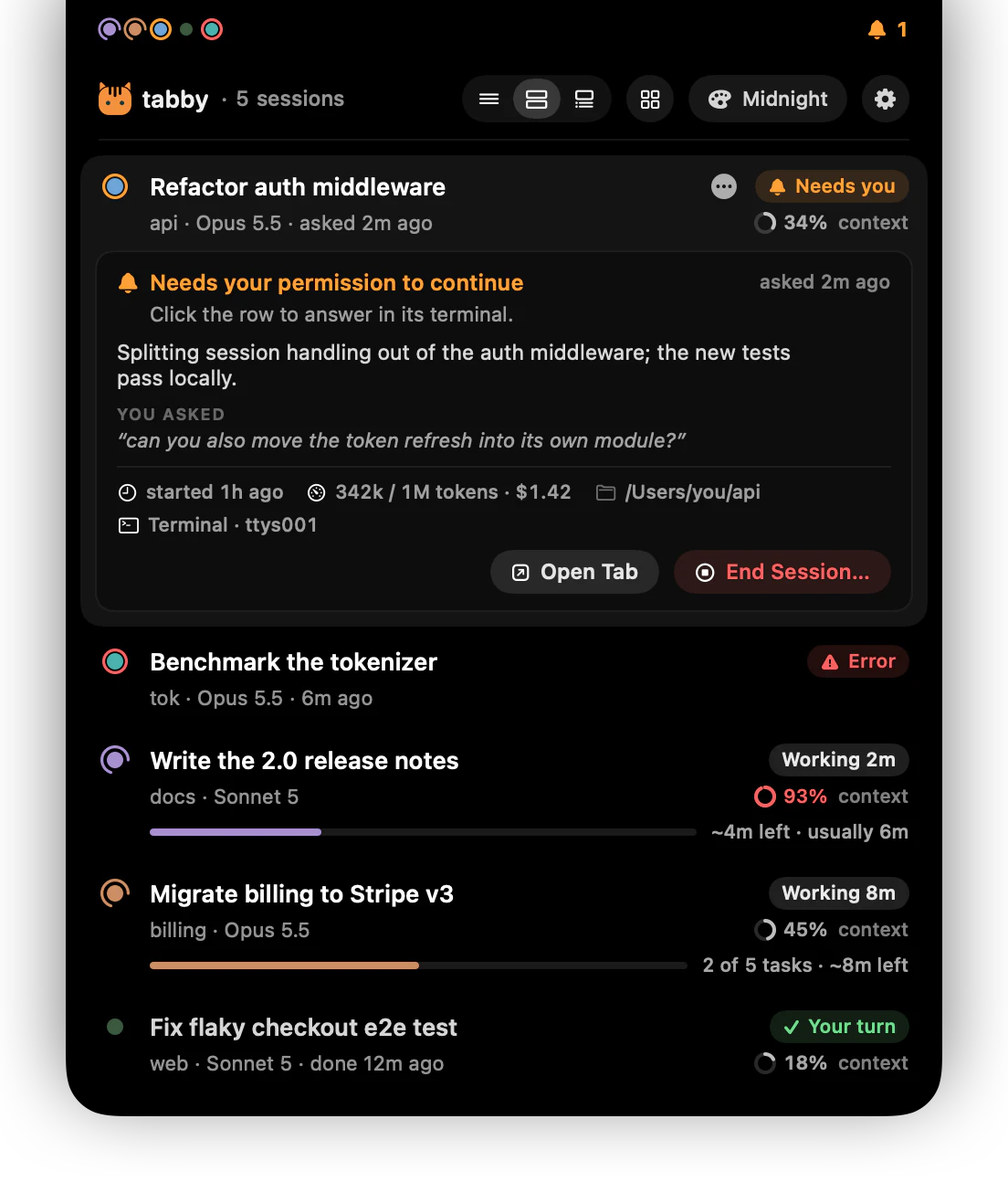
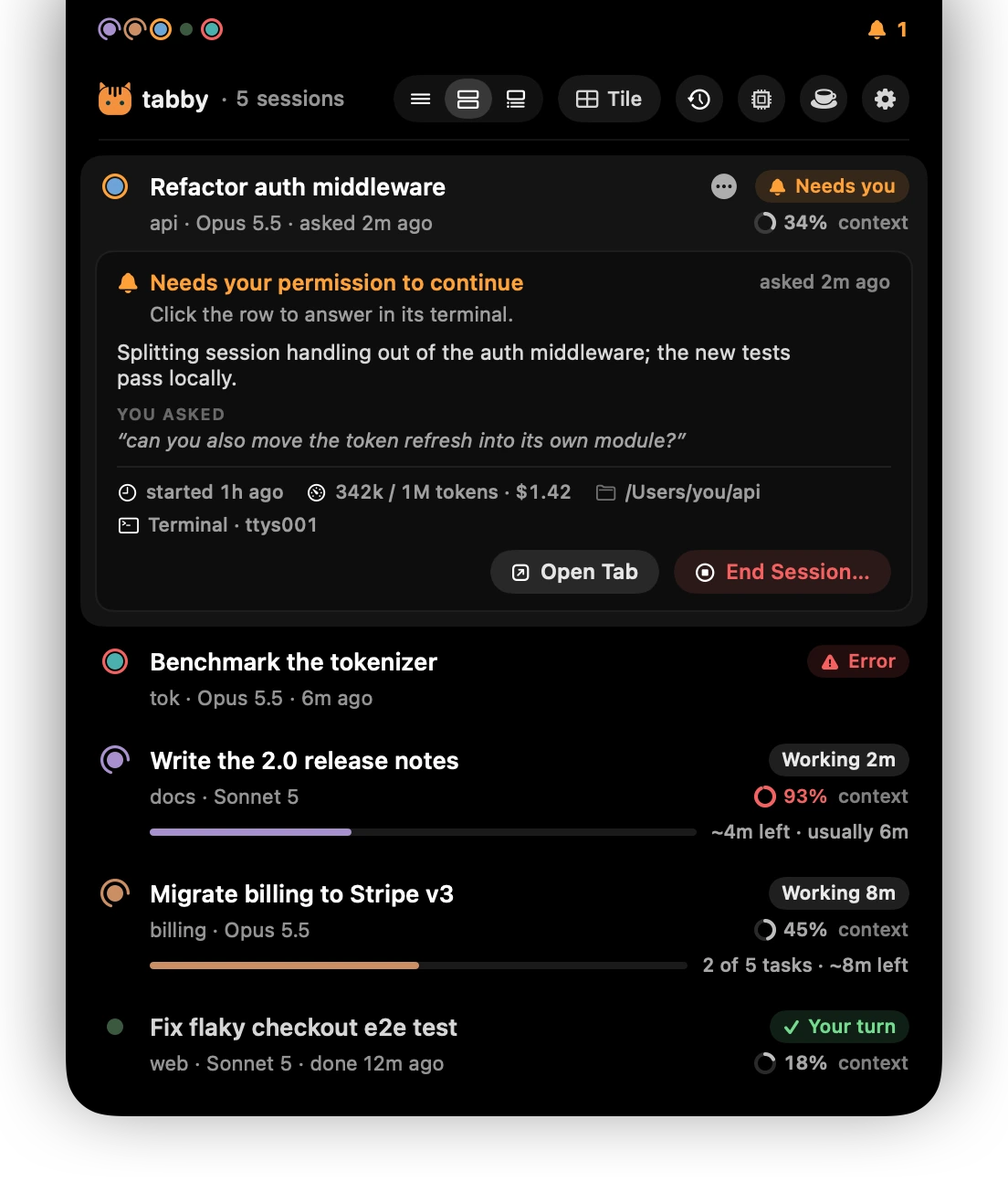
0.5.0: close the lid and Claude keeps working, menu-bar mode, context alerts
Claude-Session: https://claude.ai/code/session_015b5oNbYrBUp2FJnxKCXLaE

Changed region(s): [[0.4004, 0.0618, 0.8315, 0.1236], [0.308, 0.6801, 0.3388, 0.711]]

diff --git a/site/index.html b/site/index.html
@@ -3,8 +3,8 @@
 <head>
 <meta charset="utf-8">
 <meta name="viewport" content="width=device-width, initial-scale=1">
-<title>tabby: AI names, colors and live status for Claude Code tabs</title>
-<meta name="description" content="tabby is a free Claude Code plugin: an AI-written name, a calm color and a live status for every session, and a Mac island that shows them all. Runs on your machine.">
+<title>tabby: every Claude Code tab at a glance, and Claude keeps working with the lid closed</title>
+<meta name="description" content="tabby is a free Claude Code plugin: an AI-written name, a calm color and a live status for every session, and a Mac island that shows them all. Close the lid and Claude keeps working. Runs on your machine.">
 <meta name="robots" content="index, follow, max-image-preview:large">
 <meta name="theme-color" content="#0b0b0e">
 <meta name="color-scheme" content="dark">
@@ -13,7 +13,7 @@
 <meta property="og:site_name" content="tabby">
 <meta property="og:locale" content="en_US">
 <meta property="og:title" content="tabby: every Claude Code tab, at a glance">
-<meta property="og:description" content="tabby is a free Claude Code plugin: an AI-written name, a calm color and a live status for every session, and a Mac island that shows them all. Runs on your machine.">
+<meta property="og:description" content="tabby is a free Claude Code plugin: an AI-written name, a calm color and a live status for every session, and a Mac island that shows them all. Close the lid and Claude keeps working. Runs on your machine.">
 <meta property="og:type" content="website">
 <meta property="og:url" content="https://claude-tabby.vercel.app/">
 <meta property="og:image" content="https://claude-tabby.vercel.app/assets/og.jpg?v=20261005a">
@@ -23,7 +23,7 @@
 <meta property="og:image:alt" content="tabby (beta): Every Claude tab, at a glance. A Mac screen with Tabby Island open, listing five Claude Code sessions with their names, colors and status, above a Terminal window with named tabs; the tabby cat peeks over the screen.">
 <meta name="twitter:card" content="summary_large_image">
 <meta name="twitter:title" content="tabby: every Claude Code tab, at a glance">
-<meta name="twitter:description" content="tabby is a free Claude Code plugin: an AI-written name, a calm color and a live status for every session, and a Mac island that shows them all. Runs on your machine.">
+<meta name="twitter:description" content="tabby is a free Claude Code plugin: an AI-written name, a calm color and a live status for every session, and a Mac island that shows them all. Close the lid and Claude keeps working. Runs on your machine.">
 <meta name="twitter:image" content="https://claude-tabby.vercel.app/assets/og.jpg?v=20261005a">
 <meta name="twitter:image:alt" content="tabby (beta): Every Claude tab, at a glance. A Mac screen with Tabby Island open, listing five Claude Code sessions with their names, colors and status, above a Terminal window with named tabs; the tabby cat peeks over the screen.">
 <link rel="icon" href="/assets/favicon.svg?v=20260928a" type="image/svg+xml">
@@ -33,9 +33,9 @@
 <link rel="apple-touch-icon" href="/assets/apple-touch-icon.png?v=20260928a">
 <link rel="manifest" href="/site.webmanifest">
 <link rel="preload" as="font" type="font/woff2" href="/assets/fonts/outfit-v15-latin.woff2" crossorigin>
-<link rel="stylesheet" href="/assets/site.css?v=20261005a">
-<link rel="preload" as="image" href="/assets/ui/island-collapsed.webp?v=20261002a" type="image/webp">
-<script type="application/ld+json">{"@context":"https://schema.org","@graph":[{"@type":"WebSite","@id":"https://claude-tabby.vercel.app/#site","url":"https://claude-tabby.vercel.app/","name":"tabby","description":"tabby is a free Claude Code plugin: an AI-written name, a calm color and a live status for every session, and a Mac island that shows them all. Runs on your machine.","inLanguage":"en"},{"@type":"SoftwareApplication","@id":"https://claude-tabby.vercel.app/#app","name":"tabby","alternateName":["claude-tabby","Tabby Island"],"url":"https://claude-tabby.vercel.app/","applicationCategory":"DeveloperApplication","applicationSubCategory":"Claude Code plugin","operatingSystem":"macOS, Linux","description":"tabby is a free Claude Code plugin: an AI-written name, a calm color and a live status for every session, and a Mac island that shows them all. Runs on your machine.","image":"https://claude-tabby.vercel.app/assets/og.jpg","screenshot":"https://claude-tabby.vercel.app/assets/ui/island-standard.webp","featureList":["AI-written tab names","A calm color per session","Live status in the tab title and status line","57 themes","Tabby Island: every session at the top of the screen","Focus mode","Window tiling across screens","Quick launch"],"isAccessibleForFree":true,"license":"https://github.com/0xNtive/tabby/blob/main/LICENSE","installUrl":"https://claude-tabby.vercel.app/#install","releaseNotes":"https://github.com/0xNtive/tabby/blob/main/CHANGELOG.md","codeRepository":"https://github.com/0xNtive/tabby","offers":{"@type":"Offer","price":"0","priceCurrency":"USD"},"sameAs":["https://github.com/0xNtive/tabby"]},{"@type":"FAQPage","@id":"https://claude-tabby.vercel.app/#questions","mainEntity":[{"@type":"Question","name":"Does it cost anything?","acceptedAnswer":{"@type":"Answer","text":"No. tabby is free and MIT licensed. Tab names come from Claude Haiku through your own Claude Code login, about 500 tokens each, which Pro and Max cover."}},{"@type":"Question","name":"What leaves my machine?","acceptedAnswer":{"@type":"Answer","text":"One thing you typed: to name a tab, tabby sends that session's last few prompts (trimmed), a short excerpt of Claude's last reply and the project folder's name to Claude Haiku, through your own Claude Code login and the provider it already uses. Type /tab namer heuristic and names are worked out on your machine instead. Besides that, tabby asks github.com for a newer release every few hours and downloads Tabby Island from GitHub's releases; neither sends anything about you, and the check can be turned off. No servers, no telemetry, no accounts. Tabby Island has no network code at all, and tabby's files in ~/.claude/tabby are readable only by you."}},{"@type":"Question","name":"Is it safe to install?","acceptedAnswer":{"@type":"Answer","text":"tabby is open source with no dependencies, so everything it runs is in the repository. The installer shows the terms first, backs up your Claude settings before changing them, and tabby uninstall reverts every change. The naming call runs with no tools, no hooks and no plugins, so it can only return a name. Tabby Island asks for Accessibility and Automation only to arrange windows, find each session's window and jump to tabs; it never reads your screen or what you type. It is in beta and not yet notarized by Apple; the release zip carries a checksum and a build attestation you can verify."}},{"@type":"Question","name":"How do I update?","acceptedAnswer":{"@type":"Answer","text":"When a new version is out, the island shows an Update button. Or type /tab update in Claude, or run tabby update in a terminal. It updates the plugin and the island together."}},{"@type":"Question","name":"Which terminals work?","acceptedAnswer":{"@type":"Answer","text":"Terminal.app and iTerm2 get everything, including the island, Focus mode and tiling. Ghostty, WezTerm, kitty, Alacritty, VS Code and tmux get names, colors and live status."}},{"@type":"Question","name":"Why does tiling ask for Accessibility?","acceptedAnswer":{"@type":"Answer","text":"Moving a tab into its own window and bringing a full-screen window back use macOS window controls. tabby asks once, for Tabby Island, and never records your screen."}},{"@type":"Question","name":"Something isn't working?","acceptedAnswer":{"@type":"Answer","text":"Ask Claude to “fix tabby”: it runs tabby doctor, which checks every part of the install, and fixes what it finds. Running the installer again is safe too."}},{"@type":"Question","name":"How do I turn it off?","acceptedAnswer":{"@type":"Answer","text":"Type /tab off for one tab, or run tabby uninstall to revert every change. Your Claude settings file is backed up first."}},{"@type":"Question","name":"Is this made by Anthropic?","acceptedAnswer":{"@type":"Answer","text":"No. tabby is an independent open source project. Claude is a trademark of Anthropic."}}]}]}</script>
+<link rel="stylesheet" href="/assets/site.css?v=20261011a">
+<link rel="preload" as="image" href="/assets/ui/island-collapsed.webp?v=20261011a" type="image/webp">
+<script type="application/ld+json">{"@context":"https://schema.org","@graph":[{"@type":"WebSite","@id":"https://claude-tabby.vercel.app/#site","url":"https://claude-tabby.vercel.app/","name":"tabby","description":"tabby is a free Claude Code plugin: an AI-written name, a calm color and a live status for every session, and a Mac island that shows them all. Close the lid and Claude keeps working. Runs on your machine.","inLanguage":"en"},{"@type":"SoftwareApplication","@id":"https://claude-tabby.vercel.app/#app","name":"tabby","alternateName":["claude-tabby","Tabby Island"],"url":"https://claude-tabby.vercel.app/","applicationCategory":"DeveloperApplication","applicationSubCategory":"Claude Code plugin","operatingSystem":"macOS, Linux","description":"tabby is a free Claude Code plugin: an AI-written name, a calm color and a live status for every session, and a Mac island that shows them all. Close the lid and Claude keeps working. Runs on your machine.","image":"https://claude-tabby.vercel.app/assets/og.jpg","screenshot":"https://claude-tabby.vercel.app/assets/ui/island-standard.webp","featureList":["AI-written tab names","A calm color per session","Live status in the tab title and status line","57 themes","Tabby Island: every session at the top of the screen","Focus mode","Window tiling across screens","Quick launch","Awake: keep the Mac running with the lid closed until every session is done","Menu bar mode","Context alerts at 80% and 95%","Session history with one-click resume","Stop stale dev servers in one click"],"isAccessibleForFree":true,"license":"https://github.com/0xNtive/tabby/blob/main/LICENSE","installUrl":"https://claude-tabby.vercel.app/#install","releaseNotes":"https://github.com/0xNtive/tabby/blob/main/CHANGELOG.md","codeRepository":"https://github.com/0xNtive/tabby","offers":{"@type":"Offer","price":"0","priceCurrency":"USD"},"sameAs":["https://github.com/0xNtive/tabby"],"softwareVersion":"0.5.0","dateModified":"2026-10-11","keywords":"Claude Code, Claude Code plugin, terminal tabs, keep Mac awake lid closed, caffeinate, menu bar, Dynamic Island, macOS, Anthropic Claude"},{"@type":"FAQPage","@id":"https://claude-tabby.vercel.app/#questions","mainEntity":[{"@type":"Question","name":"Does it cost anything?","acceptedAnswer":{"@type":"Answer","text":"No. tabby is free and MIT licensed. Tab names come from Claude Haiku through your own Claude Code login, about 500 tokens each, which Pro and Max cover."}},{"@type":"Question","name":"What leaves my machine?","acceptedAnswer":{"@type":"Answer","text":"One thing you typed: to name a tab, tabby sends that session's last few prompts (trimmed), a short excerpt of Claude's last reply and the project folder's name to Claude Haiku, through your own Claude Code login and the provider it already uses. Type /tab namer heuristic and names are worked out on your machine instead. Besides that, tabby asks github.com for a newer release every few hours and downloads Tabby Island from GitHub's releases; neither sends anything about you, and the check can be turned off. No servers, no telemetry, no accounts. Tabby Island has no network code at all, and tabby's files in ~/.claude/tabby are readable only by you."}},{"@type":"Question","name":"Is it safe to install?","acceptedAnswer":{"@type":"Answer","text":"tabby is open source with no dependencies, so everything it runs is in the repository. The installer shows the terms first, backs up your Claude settings before changing them, and tabby uninstall reverts every change. The naming call runs with no tools, no hooks and no plugins, so it can only return a name. Tabby Island asks for Accessibility and Automation only to arrange windows, find each session's window and jump to tabs; it never reads your screen or what you type. It is in beta and not yet notarized by Apple; the release zip carries a checksum and a build attestation you can verify."}},{"@type":"Question","name":"How do I update?","acceptedAnswer":{"@type":"Answer","text":"When a new version is out, the island shows an Update button. Or type /tab update in Claude, or run tabby update in a terminal. It updates the plugin and the island together."}},{"@type":"Question","name":"Can Claude keep working with the lid closed?","acceptedAnswer":{"@type":"Answer","text":"Yes, with Awake. Click the cup in the island (or type /tab awake 4h), pick how long, and close the lid. A Mac normally sleeps when it's closed, whatever caffeinate says. Leave \"Sleep as soon as every session is done\" ticked and it sleeps again as soon as the work is done; it also comes back on when the time is up or below 10% battery."}},{"@type":"Question","name":"What does Awake change on my Mac?","acceptedAnswer":{"@type":"Answer","text":"Only pmset disablesleep keeps a closed Mac awake, and it needs an administrator. The first time, macOS asks for your password once, and tabby adds a rule to /etc/sudoers.d that lets your user run exactly two commands without a password: sleep off and sleep on. Nothing else runs as root. tabby awake forget takes it back."}},{"@type":"Question","name":"Can I hide the island?","acceptedAnswer":{"@type":"Answer","text":"Yes: choose In the menu bar in Settings › General, or type /tab island menubar. Nothing sits at the notch any more; the cat in the menu bar shows your sessions as dots, and a click drops the whole list down."}},{"@type":"Question","name":"Which terminals work?","acceptedAnswer":{"@type":"Answer","text":"Terminal.app and iTerm2 get everything, including the island, Focus mode and tiling. Ghostty, WezTerm, kitty, Alacritty, VS Code and tmux get names, colors and live status."}},{"@type":"Question","name":"Why does tiling ask for Accessibility?","acceptedAnswer":{"@type":"Answer","text":"Moving a tab into its own window and bringing a full-screen window back use macOS window controls. tabby asks once, for Tabby Island, and never records your screen."}},{"@type":"Question","name":"Something isn't working?","acceptedAnswer":{"@type":"Answer","text":"Ask Claude to “fix tabby”: it runs tabby doctor, which checks every part of the install, and fixes what it finds. Running the installer again is safe too."}},{"@type":"Question","name":"How do I turn it off?","acceptedAnswer":{"@type":"Answer","text":"Type /tab off for one tab, or run tabby uninstall to revert every change. Your Claude settings file is backed up first."}},{"@type":"Question","name":"Is this made by Anthropic?","acceptedAnswer":{"@type":"Answer","text":"No. tabby is an independent open source project. Claude is a trademark of Anthropic."}}]}]}</script>
 </head>
 <body>
 <a class="skip" href="#main">Skip to content</a>
@@ -82,7 +82,7 @@
           <span class="mb-right"><span class="mb-cat"><img src="/assets/logo.svg?v=20260928a" alt=""></span><span>Thu 14:02</span></span>
         </div>
         <div class="pill" aria-hidden="true">
-          <img data-state="collapsed" class="is-on" src="/assets/ui/island-collapsed.webp?v=20261002a" alt="" width="866" height="136" decoding="async">
+          <img data-state="collapsed" class="is-on" src="/assets/ui/island-collapsed.webp?v=20261011a" alt="" width="866" height="136" decoding="async">
           <img data-state="waiting" src="/assets/ui/island-announce-waiting.webp?v=20261002a" alt="" width="1562" height="136" loading="lazy" decoding="async">
           <img data-state="done" src="/assets/ui/island-announce-done.webp?v=20261002a" alt="" width="1514" height="136" loading="lazy" decoding="async">
         </div>
@@ -153,7 +153,7 @@
     </div>
     <div class="pillrow reveal" aria-label="The collapsed island: five session dots, then an announcement that Refactor auth middleware needs you, then that Fix flaky checkout e2e test is done" role="img">
       <div class="pill pill-big">
-        <img data-state="collapsed" class="is-on" src="/assets/ui/island-collapsed.webp?v=20261002a" alt="" width="866" height="136" loading="lazy" decoding="async">
+        <img data-state="collapsed" class="is-on" src="/assets/ui/island-collapsed.webp?v=20261011a" alt="" width="866" height="136" loading="lazy" decoding="async">
         <img data-state="waiting" src="/assets/ui/island-announce-waiting.webp?v=20261002a" alt="" width="1562" height="136" loading="lazy" decoding="async">
         <img data-state="done" src="/assets/ui/island-announce-done.webp?v=20261002a" alt="" width="1514" height="136" loading="lazy" decoding="async">
       </div>
@@ -167,9 +167,9 @@
           <button type="button" role="tab" class="seg" data-mode="detailed" aria-selected="false">Detailed</button>
         </div>
         <div class="mode-frame">
-          <img data-mode="minimal" src="/assets/ui/island-minimal.webp?v=20261002a" alt="Tabby Island in Minimal mode: one line per session with its dot, name, status and context used" width="976" height="586" loading="lazy" decoding="async">
-          <img data-mode="standard" class="is-on" src="/assets/ui/island-standard.webp?v=20261002a" alt="Tabby Island in Standard mode: five sessions with a status chip (needs you, error, working with a progress estimate, your turn) and the context used" width="1104" height="882" loading="lazy" decoding="async">
-          <img data-mode="detailed" src="/assets/ui/island-detailed.webp?v=20261002a" alt="Tabby Island in Detailed mode: every session with its summary, current task, last prompt, tokens and cost" width="1168" height="1360" loading="lazy" decoding="async">
+          <img data-mode="minimal" src="/assets/ui/island-minimal.webp?v=20261011a" alt="Tabby Island in Minimal mode: one line per session with its dot, name, status and context used" width="976" height="586" loading="lazy" decoding="async">
+          <img data-mode="standard" class="is-on" src="/assets/ui/island-standard.webp?v=20261011a" alt="Tabby Island in Standard mode: five sessions with a status chip (needs you, error, working with a progress estimate, your turn) and the context used" width="1104" height="882" loading="lazy" decoding="async">
+          <img data-mode="detailed" src="/assets/ui/island-detailed.webp?v=20261011a" alt="Tabby Island in Detailed mode: every session with its summary, current task, last prompt, tokens and cost" width="1168" height="1360" loading="lazy" decoding="async">
         </div>
         <p class="mode-caption" data-for="minimal">One line per session: dot, name, status, context. <kbd class="kbd">⌃⌥M</kbd> switches.</p>
         <p class="mode-caption is-on" data-for="standard">Status chips, how far along a working session is, and the context it has used.</p>
@@ -189,29 +189,40 @@
       </div>
     </div>
 
+    <div class="menubar-mode reveal">
+      <div class="menubar-copy">
+        <p class="eyebrow">New in 0.5 · Menu bar mode</p>
+        <h3 class="h3">Rather keep the notch empty?</h3>
+        <p class="lede">Choose <b>In the menu bar</b> in Settings. The cat in your menu bar shows a dot per session and how many need you. Click it, and the whole island drops down as a card: every session, page and button. News drops from the icon as a small pill.</p>
+        <img class="menubar-item" src="/assets/ui/menubar-statusitem.webp?v=20261011a" alt="The menu bar with tabby's cat, five session dots and an amber 1 for the session that needs you" width="823" height="48" loading="lazy" decoding="async">
+        <p class="cmdline"><code>tabby island menubar</code><span class="sep">·</span><code>/tab island notch</code><span class="sep">·</span>Settings › General</p>
+      </div>
+      <figure class="menubar-shot"><img src="/assets/ui/menubar-card.webp?v=20261011a" alt="Menu bar mode: the island as a card under the cat in the menu bar, listing five sessions with their status and context" width="1240" height="890" loading="lazy" decoding="async"></figure>
+    </div>
+
     <ul class="cards cards-island">
       <li class="card reveal" style="--i:0">
-        <div class="card-shot shot-dropdown"><img src="/assets/ui/island-dropdown.webp?v=20261002a" alt="A session's dropdown: Needs your permission to continue, click the row to answer in its terminal, the summary, what you asked, tokens and cost, and Open Tab and End Session buttons" width="1104" height="1294" loading="lazy" decoding="async"></div>
+        <div class="card-shot shot-dropdown"><img src="/assets/ui/island-dropdown.webp?v=20261011a" alt="A session's dropdown: Needs your permission to continue, click the row to answer in its terminal, the summary, what you asked, tokens and cost, and Open Tab and End Session buttons" width="1104" height="1294" loading="lazy" decoding="async"></div>
         <h3>Rest on a session for the full picture.</h3>
         <p>What it needs and what to do about it, its summary, your last prompt, tokens, cost, folder and terminal. <b>Open Tab</b> jumps there.</p>
       </li>
       <li class="card reveal" style="--i:1">
-        <div class="card-shot shot-end"><img src="/assets/ui/island-end.webp?v=20261002a" alt="End Migrate billing to Stripe v3? Claude stops, even mid-task, and its Terminal tab closes. Cancel or End Session." width="1104" height="1108" loading="lazy" decoding="async"></div>
+        <div class="card-shot shot-end"><img src="/assets/ui/island-end.webp?v=20261011a" alt="End Migrate billing to Stripe v3? Claude stops, even mid-task, and its Terminal tab closes. Cancel or End Session." width="1104" height="1108" loading="lazy" decoding="async"></div>
         <h3>End a session, with a safety catch.</h3>
         <p>It asks first. The conversation stays in history, so <code>claude --resume</code> brings it back.</p>
       </li>
       <li class="card reveal" style="--i:2">
-        <div class="card-shot shot-rename"><img src="/assets/ui/island-rename.webp?v=20261002a" alt="Renaming a session in place inside the island, with a hint: leave it empty to let AI name it" width="1104" height="942" loading="lazy" decoding="async"></div>
+        <div class="card-shot shot-rename"><img src="/assets/ui/island-rename.webp?v=20261011a" alt="Renaming a session in place inside the island, with a hint: leave it empty to let AI name it" width="1104" height="942" loading="lazy" decoding="async"></div>
         <h3>Rename, recolor, re-theme in place.</h3>
         <p>Right-click a row, or press <kbd class="kbd">R</kbd>, <kbd class="kbd">C</kbd> or <kbd class="kbd">T</kbd> with the keyboard open.</p>
       </li>
       <li class="card reveal" style="--i:3">
-        <div class="card-shot shot-keyboard"><img src="/assets/ui/island-keyboard.webp?v=20261002a" alt="The island open with keyboard focus, showing its key hints: arrows to select, return to open, R rename, C color, T theme, M mode, G tile" width="976" height="646" loading="lazy" decoding="async"></div>
+        <div class="card-shot shot-keyboard"><img src="/assets/ui/island-keyboard.webp?v=20261011a" alt="The island open with keyboard focus, showing its key hints: arrows to select, return to open, R rename, C color, T theme, M mode, G tile" width="976" height="646" loading="lazy" decoding="async"></div>
         <h3>Keyboard first.</h3>
         <p><kbd class="kbd">⌃⌥Space</kbd>, then arrows and <kbd class="kbd">↩</kbd>. Every global shortcut can be changed.</p>
       </li>
       <li class="card reveal" style="--i:4">
-        <div class="card-shot shot-update"><img src="/assets/ui/island-update.webp?v=20261002a" alt="The island's top bar with an orange Update button next to the mode picker" width="1104" height="882" loading="lazy" decoding="async"></div>
+        <div class="card-shot shot-update"><img src="/assets/ui/island-update.webp?v=20261011a" alt="The island's top bar with an orange Update button next to the mode picker" width="1104" height="882" loading="lazy" decoding="async"></div>
         <h3>Updates in one click.</h3>
         <p>When a new version is out, the island shows a button. Or <code>/tab update</code> in Claude. It updates the plugin and the island together.</p>
       </li>
@@ -239,7 +250,7 @@
             <span class="mb-right"><span class="mb-cat"><img src="/assets/logo.svg?v=20260928a" alt=""></span><span class="lid-clock">11:48 PM</span></span>
           </div>
           <div class="lid-island" aria-hidden="true">
-            <img data-state="collapsed" class="is-on" src="/assets/ui/island-collapsed.webp?v=20261002a" alt="" width="866" height="136" loading="lazy" decoding="async">
+            <img data-state="collapsed" class="is-on" src="/assets/ui/island-collapsed.webp?v=20261011a" alt="" width="866" height="136" loading="lazy" decoding="async">
             <img data-state="off" src="/assets/ui/awake-off.webp?v=20261011a" alt="" width="1104" height="662" loading="lazy" decoding="async">
             <img data-state="on" src="/assets/ui/awake-on.webp?v=20261011a" alt="" width="1104" height="598" loading="lazy" decoding="async">
             <img data-state="announce" src="/assets/ui/island-announce-awake.webp?v=20261011a" alt="" width="1422" height="180" loading="lazy" decoding="async">
@@ -571,6 +582,9 @@
           <details class="qa"><summary>What leaves my machine?<span class="qa-toggle" aria-hidden="true"></span></summary><p>One thing you typed: to name a tab, tabby sends that session's last few prompts (trimmed), a short excerpt of Claude's last reply and the project folder's name to Claude Haiku, through your own Claude Code login and the provider it already uses. Type /tab namer heuristic and names are worked out on your machine instead. Besides that, tabby asks github.com for a newer release every few hours and downloads Tabby Island from GitHub's releases; neither sends anything about you, and the check can be turned off. No servers, no telemetry, no accounts. Tabby Island has no network code at all, and tabby's files in ~/.claude/tabby are readable only by you.</p></details>
           <details class="qa"><summary>Is it safe to install?<span class="qa-toggle" aria-hidden="true"></span></summary><p>tabby is open source with no dependencies, so everything it runs is in the repository. The installer shows the terms first, backs up your Claude settings before changing them, and tabby uninstall reverts every change. The naming call runs with no tools, no hooks and no plugins, so it can only return a name. Tabby Island asks for Accessibility and Automation only to arrange windows, find each session's window and jump to tabs; it never reads your screen or what you type. It is in beta and not yet notarized by Apple; the release zip carries a checksum and a build attestation you can verify.</p></details>
           <details class="qa"><summary>How do I update?<span class="qa-toggle" aria-hidden="true"></span></summary><p>When a new version is out, the island shows an Update button. Or type /tab update in Claude, or run tabby update in a terminal. It updates the plugin and the island together.</p></details>
+          <details class="qa"><summary>Can Claude keep working with the lid closed?<span class="qa-toggle" aria-hidden="true"></span></summary><p>Yes, with Awake. Click the cup in the island (or type /tab awake 4h), pick how long, and close the lid. A Mac normally sleeps when it's closed, whatever caffeinate says. Leave "Sleep as soon as every session is done" ticked and it sleeps again as soon as the work is done; it also comes back on when the time is up or below 10% battery.</p></details>
+          <details class="qa"><summary>What does Awake change on my Mac?<span class="qa-toggle" aria-hidden="true"></span></summary><p>Only pmset disablesleep keeps a closed Mac awake, and it needs an administrator. The first time, macOS asks for your password once, and tabby adds a rule to /etc/sudoers.d that lets your user run exactly two commands without a password: sleep off and sleep on. Nothing else runs as root. tabby awake forget takes it back.</p></details>
+          <details class="qa"><summary>Can I hide the island?<span class="qa-toggle" aria-hidden="true"></span></summary><p>Yes: choose In the menu bar in Settings › General, or type /tab island menubar. Nothing sits at the notch any more; the cat in the menu bar shows your sessions as dots, and a click drops the whole list down.</p></details>
           <details class="qa"><summary>Which terminals work?<span class="qa-toggle" aria-hidden="true"></span></summary><p>Terminal.app and iTerm2 get everything, including the island, Focus mode and tiling. Ghostty, WezTerm, kitty, Alacritty, VS Code and tmux get names, colors and live status.</p></details>
           <details class="qa"><summary>Why does tiling ask for Accessibility?<span class="qa-toggle" aria-hidden="true"></span></summary><p>Moving a tab into its own window and bringing a full-screen window back use macOS window controls. tabby asks once, for Tabby Island, and never records your screen.</p></details>
           <details class="qa"><summary>Something isn't working?<span class="qa-toggle" aria-hidden="true"></span></summary><p>Ask Claude to “fix tabby”: it runs tabby doctor, which checks every part of the install, and fixes what it finds. Running the installer again is safe too.</p></details>
@@ -600,6 +614,6 @@
     <small>In beta: <a href="https://github.com/0xNtive/tabby/issues">tell us what breaks</a>. MIT licensed. Not affiliated with Anthropic.</small>
   </div>
 </footer>
-<script src="/assets/site.js?v=20261002b" defer></script>
+<script src="/assets/site.js?v=20261011a" defer></script>
 </body>
 </html>

diff --git a/site/assets/site.css b/site/assets/site.css
@@ -508,3 +508,10 @@ button { font: inherit; color: inherit; }
 .shot-awake { background: radial-gradient(ellipse at 50% 0%, #2a2230, #121218 70%); }
 .shot-awake img { width: 116%; left: -8%; top: -16%; }
 @media (prefers-reduced-motion: reduce) { .lid, .lid-island img, .lid-pointer, .night, .night-done li { transition: none; } .lid-glow { animation: none; } .news { animation: none; } }
+
+/* Menu bar mode, inside the island section: the copy, the menu-bar item, and the card it drops. */
+.menubar-mode { display: grid; gap: 36px; align-items: center; max-width: 1240px; margin: 88px auto 0; }
+@media (min-width: 1024px) { .menubar-mode { grid-template-columns: minmax(0, 5fr) minmax(0, 7fr); gap: 56px; } }
+.menubar-copy .lede { max-width: 46ch; }
+.menubar-item { display: block; width: min(100%, 412px); height: auto; margin-top: 28px; border-radius: 10px; box-shadow: 0 0 0 1px var(--line), 0 18px 40px -20px rgb(0 0 0 / 0.8); }
+.menubar-shot img { width: 100%; height: auto; border-radius: 16px; box-shadow: 0 0 0 1px var(--line), 0 30px 70px -30px rgb(0 0 0 / 0.85); }

diff --git a/site/404.html b/site/404.html
@@ -10,7 +10,7 @@
 <link rel="icon" href="/assets/favicon-32.png?v=20260928a" sizes="32x32" type="image/png">
 <link rel="apple-touch-icon" href="/assets/apple-touch-icon.png?v=20260928a">
 <link rel="preload" as="font" type="font/woff2" href="/assets/fonts/outfit-v15-latin.woff2" crossorigin>
-<link rel="stylesheet" href="/assets/site.css?v=20261005a">
+<link rel="stylesheet" href="/assets/site.css?v=20261011a">
 </head>
 <body>
 <main class="notfound">

diff --git a/site/terms.html b/site/terms.html
@@ -20,7 +20,7 @@
 <link rel="apple-touch-icon" href="/assets/apple-touch-icon.png?v=20260928a">
 <link rel="manifest" href="/site.webmanifest">
 <link rel="preload" as="font" type="font/woff2" href="/assets/fonts/outfit-v15-latin.woff2" crossorigin>
-<link rel="stylesheet" href="/assets/site.css?v=20261005a">
+<link rel="stylesheet" href="/assets/site.css?v=20261011a">
 </head>
 <body>
 <a class="skip" href="#main">Skip to content</a>

diff --git a/site/tools/terms.template.html b/site/tools/terms.template.html
@@ -20,7 +20,7 @@
 <link rel="apple-touch-icon" href="/assets/apple-touch-icon.png?v=20260928a">
 <link rel="manifest" href="/site.webmanifest">
 <link rel="preload" as="font" type="font/woff2" href="/assets/fonts/outfit-v15-latin.woff2" crossorigin>
-<link rel="stylesheet" href="/assets/site.css?v=20261005a">
+<link rel="stylesheet" href="/assets/site.css?v=20261011a">
 </head>
 <body>
 <a class="skip" href="#main">Skip to content</a>

diff --git a/CHANGELOG.md b/CHANGELOG.md
@@ -1,5 +1,16 @@
 # Changelog
 
+## 0.5.0 — 2026-10-11
+
+Close the lid and Claude keeps working. And for anyone who'd rather keep the notch empty, tabby can live in the menu bar.
+
+- **Awake: keep your Mac running with the lid closed.** A Mac sleeps when you close it, and every Claude session on it stops mid-turn; `caffeinate` only prevents idle sleep. Click the new cup in the island (or `/tab awake 4h`, `tabby awake done`, **Keep Awake** in the menu-bar menu), pick 1, 2, 4 or 8 hours, and close the lid. With **Sleep as soon as every session is done** ticked (the default), the Mac sleeps again as soon as no session has worked for 5 minutes, and the hours are only the most it may take. Sleep also comes back on below 10% battery on battery power. A watcher keeps time, and the island, every new session and `tabby doctor` check on it, so a crash or a restart never leaves sleep off. While it's on, a small orange cup sits beside the dots and in the menu bar; the Awake page shows a ring with the time left, **+1h** and **Stop**; and if it ends while the lid is closed, the island tells you when you open it: "Sleep is back on · Every session is done · 4 sessions worked · at 3:12 AM".
+  How: only `pmset disablesleep` keeps a closed Mac awake, and it needs an administrator. The first time, macOS asks for your password once (its own prompt, through `authopen`), and tabby adds `/etc/sudoers.d/tabby-awake`, checked with `visudo` first, which lets your user run exactly `/usr/bin/pmset -a disablesleep 1` and `… 0` without a password. Nothing else runs as root. `tabby awake forget` takes it back. See SECURITY.md.
+- **Menu bar mode: no island at the notch.** Choose **In the menu bar** in Settings › General (or **Menu Bar Only** in the menu-bar menu, `tabby island menubar`, `/tab island menubar`). The cat in the menu bar then shows a dot per session (a ring while one works, amber when one needs you, red on an error, dimmed on your turn) and the number waiting. Click it and the whole island drops down under it as a card, with every page and button; click elsewhere or press Esc to close it. Right-click it for the menu. "Done" and "needs you" news drops from the icon as a small pill. If the menu bar is full and the icon would hide behind the notch, tabby moves it next to the system icons. Turning the island off in an older version now means menu bar mode.
+- **A word when context runs low.** When a session passes 80% of its context window, the island says so ("Refactor auth middleware · 80% context · a good moment for /compact or a fresh session"), and again at 95%. Once per session and level; click it to open the tab.
+- The island's toolbar keeps the session count out of the way when a narrow view is short of room, instead of overflowing.
+- The website's island pills no longer push the page sideways on a phone.
+
 ## 0.4.4 — 2026-10-10
 
 Stale processes, a session history, and finished sessions that say what they are.

diff --git a/README.md b/README.md
@@ -34,7 +34,7 @@ With five Claude sessions running, every tab looks the same. tabby gives each on
 
 tabby is in **beta**: it works day to day, and it still changes quickly. [Tell us what breaks.](https://github.com/0xNtive/tabby/issues)
 
-On a Mac, **Tabby Island** lists every session at the top of your screen. It can also hide what Claude writes in the windows you're not using (Focus mode), tile sessions across the screens you choose, and start a new session in a recent folder with one shortcut.
+On a Mac, **Tabby Island** lists every session at the top of your screen (or, if you prefer, from the menu bar). It can also keep your Mac running with the lid closed until every session is done ([Awake](#awake-close-the-lid-claude-keeps-working)), hide what Claude writes in the windows you're not using (Focus mode), tile sessions across the screens you choose, and start a new session in a recent folder with one shortcut.
 
 ## Install
 
@@ -146,7 +146,7 @@ tabby update              # the newest tabby: plugin, setup and island (--check 
 
 A Dynamic-Island-style overlay at the top center of your Mac. It idles under 1% CPU.
 
-- **Collapsed:** one dot per session. A working session's dot spins inside a ring of its color, one that needs you rings amber, and one waiting for your next prompt rests, dimmed. When a session finishes or needs you, the island says which (its name, never Claude's stand-in like "api-4f") and grows a second line with the project and what Claude did: "web · The checkout spec now waits for the cart request: 20 runs passed." Click it to go there.
+- **Collapsed:** one dot per session. A working session's dot spins inside a ring of its color, one that needs you rings amber, and one waiting for your next prompt rests, dimmed. When a session finishes or needs you, the island says which (its name, never Claude's stand-in like "api-4f") and grows a second line with the project and what Claude did: "web · The checkout spec now waits for the cart request: 20 runs passed." Click it to go there. It also speaks up when a session's context passes 80% and again at 95%, once each.
 - **Open** (hover, or ⌃⌥Space): every session's name and status ("Working 3m", "Your turn", "Needs you"), context used, and for a working session, an estimate of how far along it is. That estimate is "2 of 5 tasks · ~3m left" from Claude's task list, or "~2m left · usually 6m" from how long that session's turns take.
 - **Hover a session** for the full picture: what it's doing or waiting for, and what to do about it; its current task, summary, your last prompt, tokens and cost, folder and terminal. **Open Tab** jumps there. **End Session…** stops Claude and closes its tab, but only after you confirm; `claude --resume` brings the conversation back.
 - **Modes:** Minimal (one line per session), Standard, and Detailed (summary, last prompt, tokens and cost for every session).
